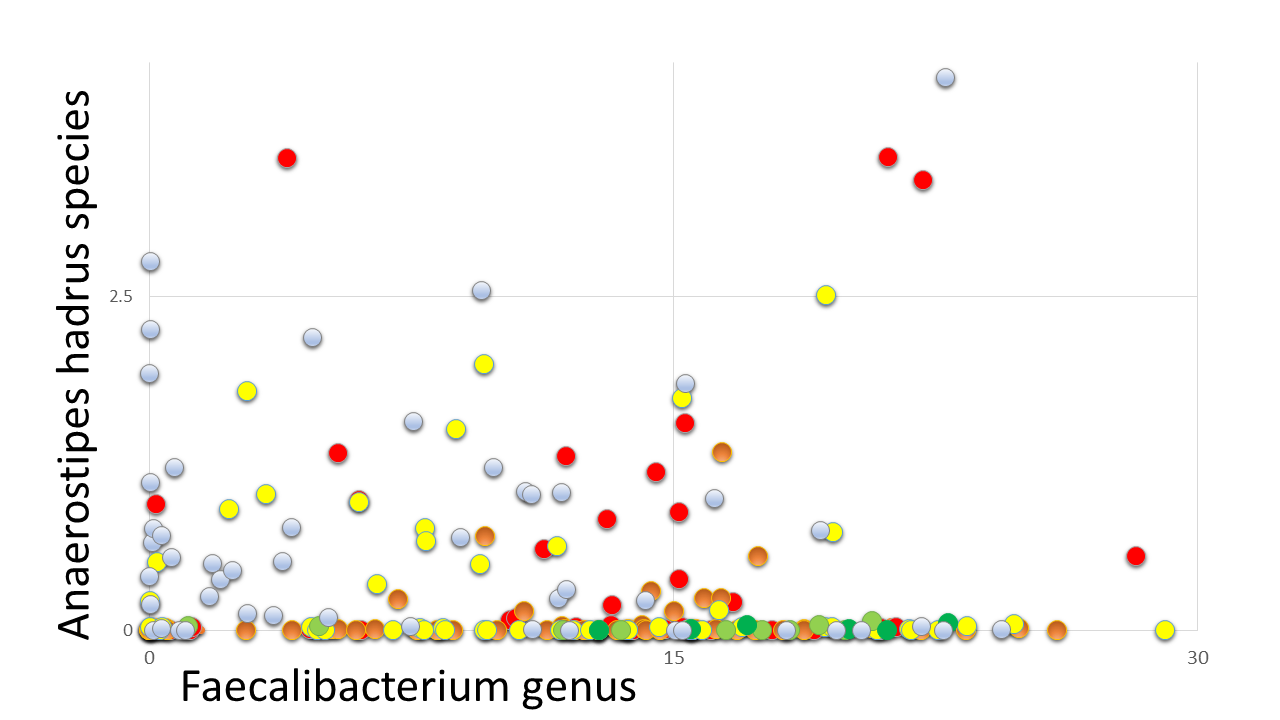
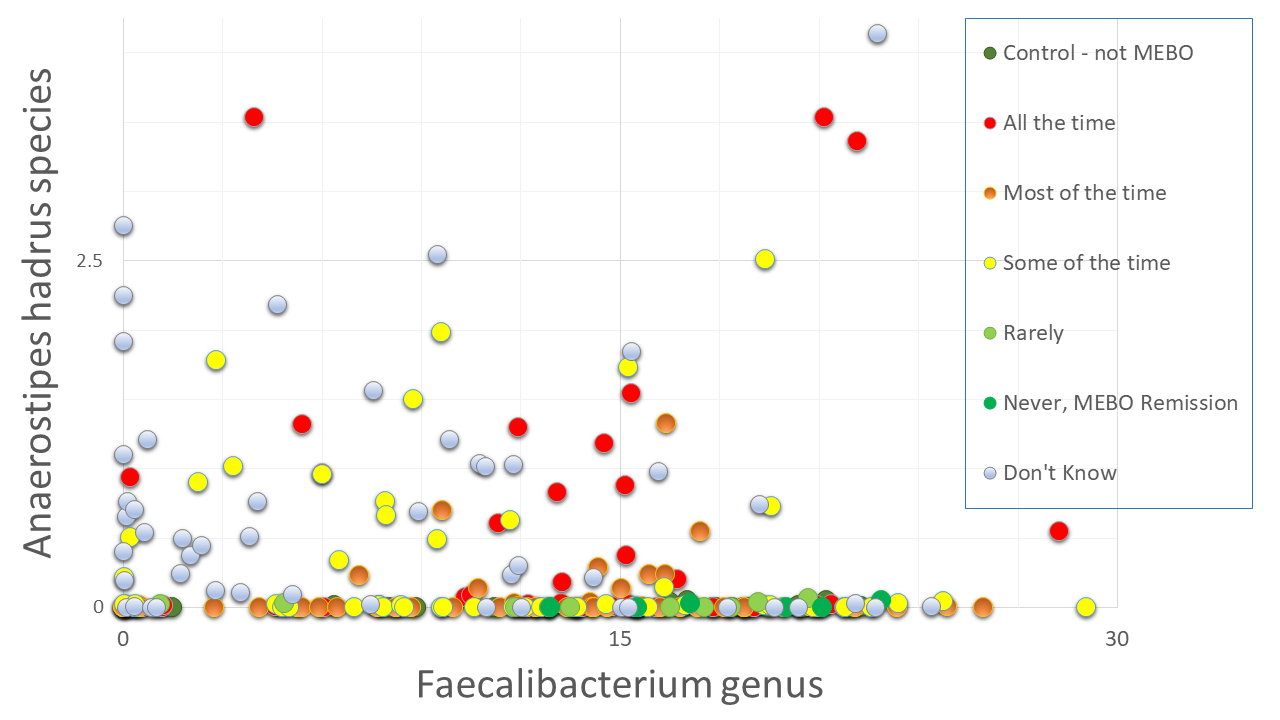
Microbiome-based diagnostics

diff --git a/blog/mdx.html b/blog/mdx.html
@@ -27,7 +27,7 @@
      <h1>NCT03582826 Archives</h1>
 	 <div dir="ltr" style="text-align: left;" trbidi="on">
 
-	 <li><a href="mdx.html">Microbial Dx</a>: 1/30/2020		
+	 <li><a href="mdx.html">Microbial Dx</a>: 2/10/2020		
 	 <li><a href="gender.html">Gender</a>: 1/13/2020	
 	 <li><a href="age.html">Age</a>: 12/17/2019	
 	 <li><a href="sutterella.html">Sutterella</a>: 12/4/2019	
@@ -64,27 +64,51 @@
 		          <div id="recently-updated" class="grid-2 alpha header">
    <h1>Microbiome-based diagnostics</h1>
    <a href="https://clinicaltrials.gov/ct2/show/NCT03582826"><h1>NCT03582826</h1></a> 
-   <h6>&nbsp;&nbsp;&nbsp Monday, January xx, 2020</h6>
+   <h6>&nbsp;&nbsp;&nbsp Monday, February 10, 2020</h6>
         </div>
 
 
-<a href="../images/Studies/AH.png" imageanchor="1" style="border: 0px; clear: right; color: #0084b4; float: right; font-family: &quot;helvetica neue&quot;, helvetica, arial, sans-serif; font-size: 13px; font-stretch: inherit; line-height: inherit; margin-bottom: 1em; margin-left: 1em; margin-top: 0px; padding: 0px; vertical-align: baseline;">
-<img border="0" data-original-height="398" data-original-width="800" height="158" 
-src="../images/Studies/AH.png" style="border: 0px; font: inherit; margin: 0px; padding: 0px; vertical-align: baseline;" width="320" /></a>
-
-Many studies suggest xxxxxxxx.<br />
-
-<a href="../images/Studies/SD.png" imageanchor="1" style="border: 0px; clear: right; color: #0084b4; float: right; font-family: &quot;helvetica neue&quot;, helvetica, arial, sans-serif; font-size: 13px; font-stretch: inherit; line-height: inherit; margin-bottom: 1em; margin-left: 1em; margin-top: 0px; padding: 0px; vertical-align: baseline;">
-<img border="0" data-original-height="398" data-original-width="800" height="158" 
-src="../images/Studies/SD.png" style="border: 0px; font: inherit; margin: 0px; padding: 0px; vertical-align: baseline;" width="320" /></a>xxx draw conclusions from this observation.<br />
-
-
-<a href="../images/Studies/LogReg.png" imageanchor="1" style="border: 0px; clear: right; color: #0084b4; float: right; font-family: &quot;helvetica neue&quot;, helvetica, arial, sans-serif; font-size: 13px; font-stretch: inherit; line-height: inherit; margin-bottom: 1em; margin-left: 1em; margin-top: 0px; padding: 0px; vertical-align: baseline;">
-<img border="0" data-original-height="398" data-original-width="800" height="158" 
-src="../images/Studies/LogReg.png" style="border: 0px; font: inherit; margin: 0px; padding: 0px; vertical-align: baseline;" width="320" /></a>xxx draw conclusions from this observation.<br />
 
 
 
+
+<div dir="ltr" style="text-align: left;" trbidi="on">
+There are many medical conditions for which there are no standard tests for definite diagnosis and no established cures.&nbsp; Diagnosing and curing Metabolic Body Odor (MEBO) is even more difficult. Especially because MEBO is an umbrella term for several different conditions.<br />
+<br />
+Even diagnosis of trimethylaminuria (TMAU) - one of metabolic conditions under MEBO umbrella is challenging and useful to less than 30% of MEBO sufferers with the most severe symptoms. Diagnosis based on smell is unreliable because the odor is often episodic and not everyone can detect it. Diagnosis requires the measurement of TMA and TMAO in urine, which should be collected after a high substrate meal. According to <a href="https://www.ncbi.nlm.nih.gov/pubmed/11259343?dopt=Abstract">Mitchell and Smith</a>,&nbsp; there are five subtypes of TMAU including (i) primary genetic TMAU (with autosomal recessive inheritance), (ii) acquired TMAU (possibly after viral hepatitis in childhood), (iii) transient childhood TMAU, (iv) transient TMAU associated with menstruation, and (v) precursor overload TMAU (for example, after excessive supplementation with betaine or L-carnitine).<br />
+<a href="../images/Studies/LogReg.png" imageanchor="1" style="border: 0px; clear: right; color: #0084b4; float: right; font-family: &quot;helvetica neue&quot;, helvetica, arial, sans-serif; font-size: 13px; font-stretch: inherit; font-variant-east-asian: inherit; font-variant-numeric: inherit; line-height: inherit; margin-bottom: 1em; margin-left: 1em; margin-top: 0px; padding: 0px; text-decoration-line: none; vertical-align: baseline;"><img border="0" data-original-height="398" data-original-width="800" height="158" src="../images/Studies/LogReg.png" style="border: 0px; font: inherit; margin: 0px; padding: 0px; vertical-align: baseline;" width="320" /></a><br />
+<div style="border: 0px; color: #666666; font-family: &quot;Helvetica Neue&quot;, Helvetica, Arial, sans-serif; font-size: 13px; font-stretch: inherit; font-variant-east-asian: inherit; font-variant-numeric: inherit; line-height: inherit; padding: 0px; vertical-align: baseline;">
+<br /></div>
+The main question we were seeking answer to when initiating our <a href="https://aurametrix.com/Studies/mebo-microbiome">microbiome study</a> was: Can<br />
+microbiome analysis be used to diagnose MEBO? Our answer is YES. Even if we combine microbiome profiles of those who tested positive and negative for TMAU with active PATM and just look at the differences between those in remission vs with flareups, machine learning algorithms are able to predict flareups. Overall accuracy is about 76% (see ROC curve above), but it varies from 70% to 86%, better with nonlinear classifiers, and can be improved if we are able to separate different MEBO conditions before hand.<br />
+<br style="color: #666666; font-family: &quot;Helvetica Neue&quot;, Helvetica, Arial, sans-serif; font-size: 13px;" />
+<a href="../images/Studies/AH.png" imageanchor="1" style="clear: left; float: left; margin-bottom: 1em; margin-right: 1em;"><img border="0" data-original-height="450" data-original-width="800" height="180" src="../images/Studies/AH.png" width="320" /></a>Next question is if we could use simple microbiology tests to diagnose MEBO - e.g. check for overabundance of Alloprevotella or Sutterella species as in our previous blog posts. And the answer is NO. Even though we compiled a list of microbes that contribute to MEBO and PATM and lists of microorganisms improving symptoms, there could be different combinations of "good bacteria" compensating the effect of "bad" ones. We need to simultaneously identify dynamics of ~200 species to provide a diagnosis. Figure on the left shows example of species worsening MEBO -&nbsp; a butyrate-producing bacteria A. hadrus that seem to protect from diarrhea-predominant irritable bowel syndrome (IBS-D) yet might be causing unpleasant odors. Faecalibacterium genus, on the other hand, is in the "lessening odor bacteria" camp, even though its contribution is relatively small. Interestingly, this butyrate-producing bacteria - when in nasal microbiome - is associated with reduced <a href="https://www.nature.com/articles/s41598-018-19438-3">ability to smell and detect odors</a>.<br />
+<div class="separator" style="clear: both; text-align: center;">
+<a href="../images/Studies/SD.png" imageanchor="1" style="clear: right; float: right; margin-bottom: 1em; margin-left: 1em;"><img border="0" data-original-height="450" data-original-width="800" height="180" src="../images/Studies/SD.png" width="320" /></a></div>
+<br />
+Bacteria counteracting MEBO or PATM symptoms include Bacteroides plebeius  (that break down the seaweed-containing polysaccharide), cellulose, methylcellulose and resistant starch degrading bacteria Marvinbryantia and Bifidobacterium bifidum. The relationship with flareups and remission, however, isn't that simple. The figure on the right shows an example. Bacteria Dorea, major gas producer in dogs, responsible for carbon dioxide and hydrogen gases and associated with constipation, is reduced in MEBO subjects in remission, but increases when those in remission try to induce flareups with stress and diet.<br />
+Elevated levels of Dorea are also more common in individuals with Multiple Sclerosis, an autoimmune condition, suggesting that the Dorea genus may play a role in immune system activity. Butyrate-producing Subdoligranulum decrease with lessening of symptoms, but is slightly higher in complete remission of former MEBO patients vs non-MEBO controls.<br />
+<br />
+The progress in developing useful diagnostic applications based in microbiome testing is still behind expectations because of the relative lack of consistency, still developing technological approaches&nbsp; and the lack of defined " healthy ranges". Nevertheless, microbiome-based diagnostic and therapeutic applications are possible and will be the next step.<br />
+<br />
+<br />
+&nbsp;
+
+<span style="background-color: white; color: #191919; font-family: &quot;lucida sans&quot; , &quot;helvetica&quot; , &quot;arial&quot; , sans-serif; font-size: 14.7px;"><br /></span><span style="background-color: white; color: #191919; font-family: &quot;lucida sans&quot; , &quot;helvetica&quot; , &quot;arial&quot; , sans-serif; font-size: 14.7px;">REFERENCES</span><br />
+<span style="background-color: white; color: #191919; font-family: &quot;lucida sans&quot; , &quot;helvetica&quot; , &quot;arial&quot; , sans-serif; font-size: 14.7px;"><br /></span>
+<span style="background-color: white; color: #191919; font-family: &quot;lucida sans&quot; , &quot;helvetica&quot; , &quot;arial&quot; , sans-serif; font-size: 14.7px;"><span style="color: #222222; font-family: &quot;arial&quot; , sans-serif; font-size: 13px;"><br /></span><span style="color: black; font-family: &quot;times new roman&quot;; font-size: small;"></span><span style="color: #222222; font-family: &quot;arial&quot; , sans-serif; font-size: 13px;">Rath S, Rud T, Pieper DH, Vital M. Potential TMA-Producing Bacteria Are Ubiquitously Found in Mammalia. Frontiers in Microbiology. 2020 Jan 9;10:2966.</span></span><br />
+<span style="background-color: white;"><span style="color: #222222; font-family: &quot;arial&quot; , sans-serif;"><span style="font-size: 13px;"><br /></span></span></span><span style="background-color: white; color: #191919; font-family: &quot;lucida sans&quot; , &quot;helvetica&quot; , &quot;arial&quot; , sans-serif; font-size: 14.7px;"><span style="color: #222222; font-family: &quot;arial&quot; , sans-serif; font-size: 13px;"><span style="font-family: &quot;arial&quot; , sans-serif;">Koskinen K, Reichert JL, Hoier S, Schachenreiter J, Duller S, Moissl-Eichinger C, Schöpf V. The nasal microbiome mirrors and potentially shapes olfactory function. Scientific reports. 2018 Jan 22;8(1):1-1.</span></span></span><br />
+<span style="background-color: white; color: #191919; font-family: &quot;lucida sans&quot; , &quot;helvetica&quot; , &quot;arial&quot; , sans-serif; font-size: 14.7px;"><span style="color: #222222; font-family: &quot;arial&quot; , sans-serif; font-size: 13px;"><br /></span></span>
+<span style="background-color: white; color: #191919; font-family: &quot;lucida sans&quot; , &quot;helvetica&quot; , &quot;arial&quot; , sans-serif; font-size: 14.7px;"><span style="color: #222222; font-family: &quot;arial&quot; , sans-serif; font-size: 13px;">Shomorony I, Cirulli ET, Huang L, Napier LA, Heister RR, Hicks M, Cohen IV, Yu HC, Swisher CL, Schenker-Ahmed NM, Li W. An unsupervised learning approach to identify novel signatures of health and disease from multimodal data. Genome Medicine. 2020 Dec;12(1):1-4.</span></span><br />
+<span style="background-color: white;"><span style="color: #222222; font-family: &quot;arial&quot; , sans-serif;"><span style="font-size: 13px;"><br /></span></span></span>
+<span style="background-color: white; color: #191919; font-family: &quot;lucida sans&quot; , &quot;helvetica&quot; , &quot;arial&quot; , sans-serif; font-size: 14.7px;"><span style="color: #222222; font-family: &quot;arial&quot; , sans-serif; font-size: 13px;">Versalovic J, Dore J, Guarner F, Luna RA, Ringel Y. Microbiome-Based Diagnostics: Ready for Applications in Laboratory Medicine?. Clinical chemistry. 2017 Nov 1;63(11):1674-9.</span></span><br />
+<span style="background-color: white; color: #191919; font-family: &quot;lucida sans&quot; , &quot;helvetica&quot; , &quot;arial&quot; , sans-serif; font-size: 14.7px;"><span style="color: #222222; font-family: &quot;arial&quot; , sans-serif; font-size: 13px;"><br /></span></span>
+<span style="background-color: white; color: #191919; font-family: &quot;lucida sans&quot; , &quot;helvetica&quot; , &quot;arial&quot; , sans-serif; font-size: 14.7px;"><span style="color: #222222; font-family: &quot;arial&quot; , sans-serif; font-size: 13px;"><span style="font-family: &quot;arial&quot; , sans-serif;">Mitchell SC, Smith RL. Trimethylaminuria: the fish malodor syndrome. Drug Metabolism and Disposition. 2001 Apr 1;29(4):517-21.</span></span></span><br />
+<span style="background-color: white; color: #191919; font-family: &quot;lucida sans&quot; , &quot;helvetica&quot; , &quot;arial&quot; , sans-serif; font-size: 14.7px;"><span style="color: #222222; font-family: &quot;arial&quot; , sans-serif; font-size: 13px;"><span style="font-family: &quot;arial&quot; , sans-serif;"><br /></span></span></span>
+<span style="background-color: white; color: #191919; font-family: &quot;lucida sans&quot; , &quot;helvetica&quot; , &quot;arial&quot; , sans-serif; font-size: 14.7px;"><span style="color: #222222; font-family: &quot;arial&quot; , sans-serif; font-size: 13px;"><span style="font-family: &quot;arial&quot; , sans-serif;"><span style="font-family: &quot;arial&quot; , sans-serif;">Kant R, Rasinkangas P, Satokari R, Pietilä TE, Palva A. Genome sequence of the butyrate-producing anaerobic bacterium Anaerostipes hadrus PEL 85. Genome Announc.. 2015 Apr 30;3(2):e00224-15.</span></span></span></span><br />
+<span style="background-color: white; color: #191919; font-family: &quot;lucida sans&quot; , &quot;helvetica&quot; , &quot;arial&quot; , sans-serif; font-size: 14.7px;"><br /></span>
+<span style="background-color: white; color: #191919; font-family: &quot;lucida sans&quot; , &quot;helvetica&quot; , &quot;arial&quot; , sans-serif; font-size: 14.7px;"><br /></span><br />
+<span style="background-color: white; color: #191919; font-family: &quot;lucida sans&quot; , &quot;helvetica&quot; , &quot;arial&quot; , sans-serif; font-size: 14.7px;">
 		  
 
 

diff --git a/blog/gender.html b/blog/gender.html
@@ -27,6 +27,7 @@
      <h1>NCT03582826 Archives</h1>
 	 <div dir="ltr" style="text-align: left;" trbidi="on">
 		
+	 <li><a href="mdx.html">Microbial Dx</a>: 2/10/2020	
 	 <li><a href="gender.html">Gender</a>: 1/13/2020	
 	 <li><a href="age.html">Age</a>: 12/17/2019	
 	 <li><a href="sutterella.html">Sutterella</a>: 12/4/2019	
@@ -34,8 +35,7 @@
 	 <li><a href="confounders.html">Confounders</a>: 10/30/2019	
 	 <li><a href="https://aurametrix.com/blog/akp">Alloprevotella</a>: 9/4/2019	
 	 <li><a href="https://aurametrix.com/blog/balance">Epulopiscium</a>: 8/19/2019	
-	 <li><a href="https://aurametrix.com/blog/friends">Friends & Stars</a>: 8/14/2019	
-	 <li><a href="https://aurametrix.com/blog/microbiome-tma">PATM and TMAU</a>: 8/5/2019	
+	 <li><a href="https://aurametrix.com/blog/friends">Friends & Stars</a>: 8/14/2019		
 	 <li><a href="https://aurametrix.com/blog/microbiome-food">Feeding microbiomes</a>: 7/21/2019	 
 	 <li><a href="https://aurametrix.com/blog/microbiome-blood-type">Blood type</a>: 6/24/2019
 	 <li><a href="https://aurametrix.com/blog/microbiome-first41">First 41 results</a>: 11/28/2018

diff --git a/blog/D2019.html b/blog/D2019.html
@@ -26,6 +26,7 @@
       <!--  <div id="logo"><h1>Blog</h1></div> -->
      <h1>NCT03582826 Archives</h1>
 	 <div dir="ltr" style="text-align: left;" trbidi="on">
+	  <li><a href="mdx.html">Microbiome Dx</a>: 2/10/2020
 	 			 	 	 <li><a href="age.html">Gender</a>: 12/17/2020	
 			 	 	 <li><a href="age.html">Age</a>: 12/17/2019	
 	 	 <li><a href="sutterella.html">Sutterella</a>: 12/4/2019	
@@ -34,7 +35,7 @@
 	 <li><a href="https://aurametrix.com/blog/akp">Alloprevotella</a>: 9/4/2019	
 	 <li><a href="https://aurametrix.com/blog/balance">Epulopiscium</a>: 8/19/2019	
 	 <li><a href="https://aurametrix.com/blog/friends">Friends & Stars</a>: 8/14/2019	
-	 <li><a href="https://aurametrix.com/blog/microbiome-tma">PATM and TMAU</a>: 8/5/2019	
+		
 	 <li><a href="https://aurametrix.com/blog/microbiome-food">Feeding microbiomes</a>: 7/21/2019	 
 	 <li><a href="https://aurametrix.com/blog/microbiome-blood-type">Blood type</a>: 6/24/2019
 	 <li><a href="https://aurametrix.com/blog/microbiome-first41">First 41 results</a>: 11/28/2018

diff --git a/blog/age.html b/blog/age.html
@@ -27,6 +27,7 @@
      <h1>NCT03582826 Archives</h1>
 	 <div dir="ltr" style="text-align: left;" trbidi="on">
 
+                     <li><a href="mdx.html">Microbial Dx</a>: 2/10/2020	
 			 	 	 <li><a href="gender.html">Gender</a>: 1/13/2020			
 			 	 	 <li><a href="age.html">Age</a>: 12/17/2019	
 	 	 <li><a href="sutterella.html">Sutterella</a>: 12/4/2019	
@@ -35,7 +36,7 @@
 	 <li><a href="https://aurametrix.com/blog/akp">Alloprevotella</a>: 9/4/2019	
 	 <li><a href="https://aurametrix.com/blog/balance">Epulopiscium</a>: 8/19/2019	
 	 <li><a href="https://aurametrix.com/blog/friends">Friends & Stars</a>: 8/14/2019	
-	 <li><a href="https://aurametrix.com/blog/microbiome-tma">PATM and TMAU</a>: 8/5/2019	
+	
 	 <li><a href="https://aurametrix.com/blog/microbiome-food">Feeding microbiomes</a>: 7/21/2019	 
 	 <li><a href="https://aurametrix.com/blog/microbiome-blood-type">Blood type</a>: 6/24/2019
 	 <li><a href="https://aurametrix.com/blog/microbiome-first41">First 41 results</a>: 11/28/2018

diff --git a/blog.html b/blog.html
@@ -172,6 +172,14 @@ _W.setup_model_rpc({"rpc_namespace":"_W.Commerce.RPC","model_namespace":"_W.Comm
 
 
 <div class="blog-header">
+	<h6>February 10, 2020</h6>
+			<h2 class="blog-title">
+					<a class="blog-title-link blog-link" ./blog/mdx.html">
+Microbial diagnostics</a>
+</h2><a href="./blog/mdx.html">Read more</a> </p>
+
+
+<div class="blog-header">
 	<h6>January 13, 2020</h6>
 			<h2 class="blog-title">
 					<a class="blog-title-link blog-link" ./blog/gender.html">
@@ -656,6 +664,9 @@ Here is the first version and we welcome all suggestions and ideas the community
 
 <h2 class="blog-archives-title" style="text-align:left;">Archives</h2>
 <p class="blog-archive-list">
+ 
+        <a href="./blog/mdx.html" class="blog-link">February 2020</a>
+
         <a href="./blog/gender.html" class="blog-link">January 2020</a>
 		<br>
         <a href="./blog/D2019.html" class="blog-link">December 2019</a>

diff --git a/news-and-views.html b/news-and-views.html
@@ -211,7 +211,15 @@ _W.setup_model_rpc({"rpc_namespace":"_W.Commerce.RPC","model_namespace":"_W.Comm
 
 <div class="paragraph">2019<br />
 
-
+<br>February 10, 2020: <a href="blog/mdx.html" target="_blank">Microbiome-based diagnostics</a>:
+The progress in developing useful diagnostic applications based in microbiome testing is still behind 
+expectations. Nevertheless, microbiome-based diagnostic and therapeutic applications are possible and will be the next step.
+<br />
+ 
+ <br>January 13, 2020: <a href="blog/gender.html" target="_blank">Gender </a>:
+Are there related differences important for our study?
+ <br>
+ 
 <br>December 21, 2019: <a href="blog/fluDec2019.html" target="_blank">Flu season 2019-2020</a>:
 This year's influenza season got an early start. Is the flu shot working?
  <br>

diff --git a/blog/sutterella.html b/blog/sutterella.html
@@ -26,7 +26,7 @@
       <!--  <div id="logo"><h1>Blog</h1></div> -->
      <h1>NCT03582826 Archives</h1>
 	 <div dir="ltr" style="text-align: left;" trbidi="on">
-		 	 	 <li><a href="age.html">Age</a>: 12/17/2019	
+		  <li><a href="mdx.html">Microbial Dx</a>: 2/10/2020		
 	 	 <li><a href="sutterella.html">Sutterella</a>: 12/4/2019	
 	 <li><a href="baseline.html">Baseline</a>: 11/30/2019	
 	 	 <li><a href="confounders.html">Confounders</a>: 10/30/2019	
